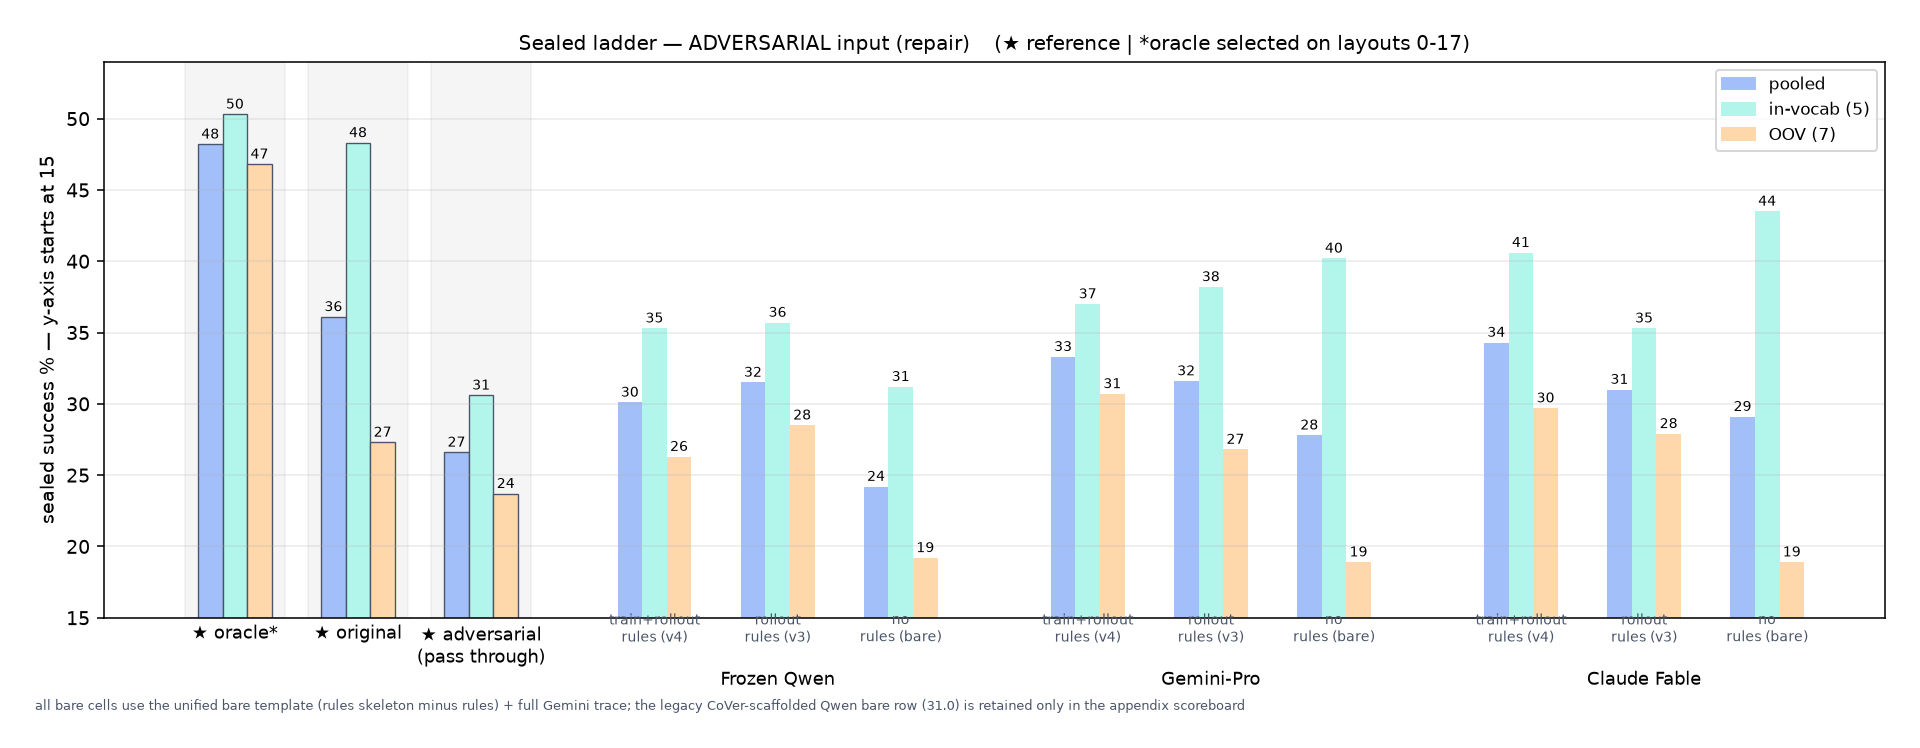
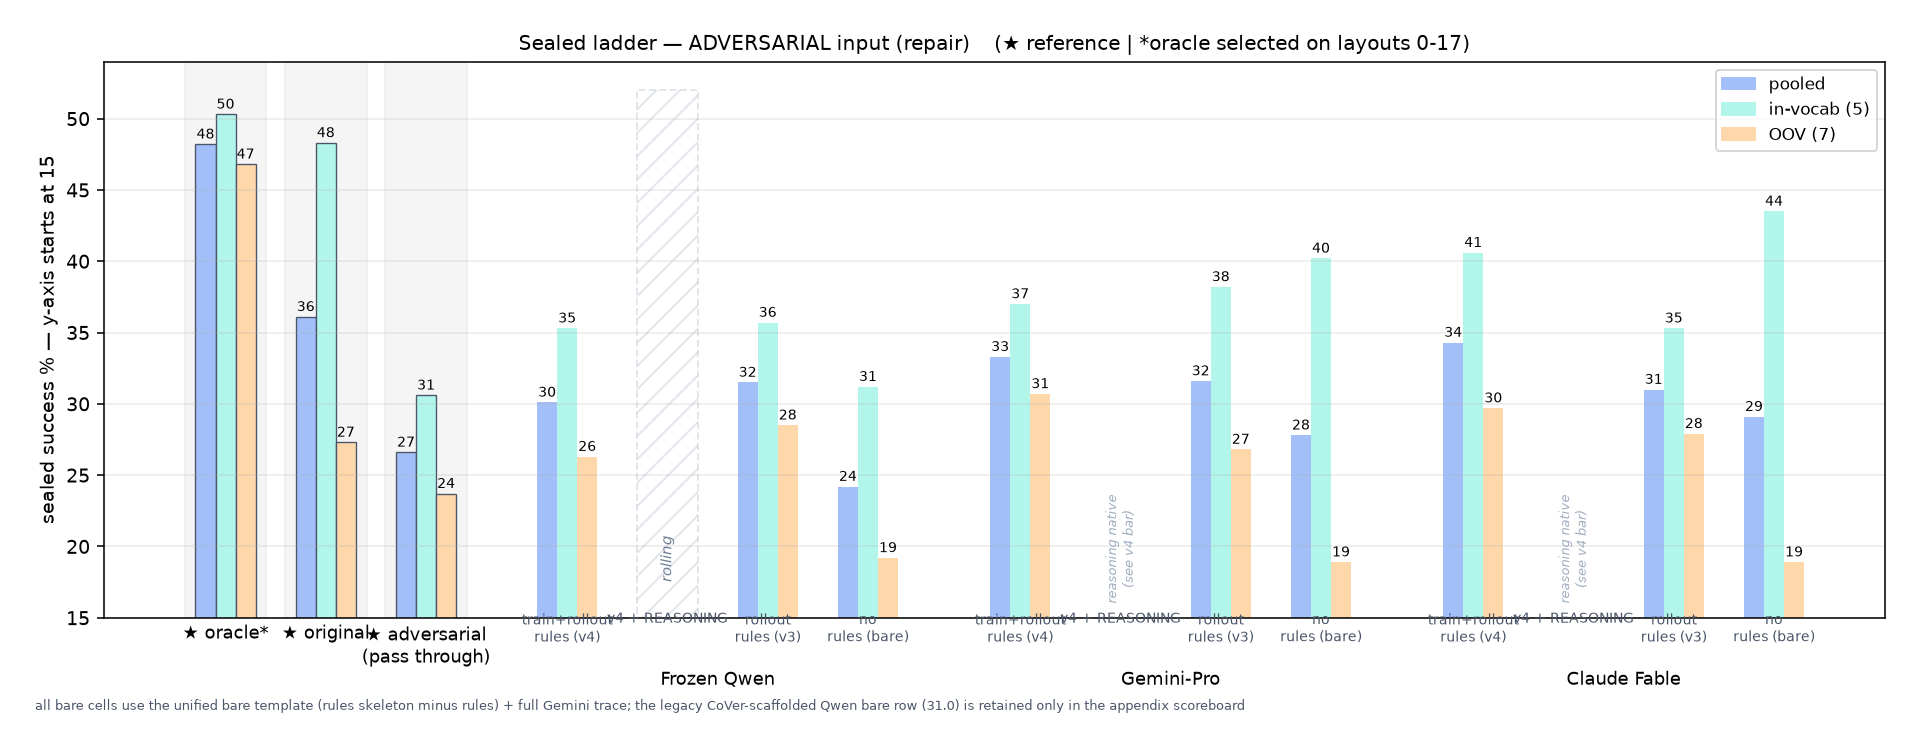
ladder charts: explicit v4+REASONING column (Qwen think cells rolling/queued)

diff --git a/scripts/make_condition_ladders.py b/scripts/make_condition_ladders.py
@@ -15,22 +15,22 @@ REFS = [("oracle*", (48.2, 50.3, 46.8)), ("original", (36.1, 48.3, 27.3)),
 
 DATA = {
     "adversarial": {
-        "roles": ["train+rollout rules (v4)", "rollout rules (v3)", "no rules (bare)"],
+        "roles": ["train+rollout rules (v4)", "v4 + REASONING", "rollout rules (v3)", "no rules (bare)"],
         "models": {
-            "Frozen Qwen": [(30.1, 35.3, 26.3), (31.5, 35.7, 28.5), (24.2, 31.2, 19.2)],
-            "Gemini-Pro": [(33.3, 37.0, 30.7), (31.6, 38.2, 26.8), (27.8, 40.2, 18.9)],
-            "Claude Fable": [(34.3, 40.6, 29.7), (31.0, 35.3, 27.9), (29.1, 43.5, 18.9)],
+            "Frozen Qwen": [(30.1, 35.3, 26.3), None, (31.5, 35.7, 28.5), (24.2, 31.2, 19.2)],
+            "Gemini-Pro": [(33.3, 37.0, 30.7), "N/A", (31.6, 38.2, 26.8), (27.8, 40.2, 18.9)],
+            "Claude Fable": [(34.3, 40.6, 29.7), "N/A", (31.0, 35.3, 27.9), (29.1, 43.5, 18.9)],
         },
-        "pending": {},
+        "pending": {("Frozen Qwen", 1): "rolling"},
     },
     "nominal": {
-        "roles": ["train+rollout rules (v4)", "rollout rules (v3)"],
+        "roles": ["train+rollout rules (v4)", "v4 + REASONING", "rollout rules (v3)"],
         "models": {
-            "Frozen Qwen": [(27.8, 34.9, 22.7), None],
-            "Gemini-Pro": [(37.2, 46.0, 30.9), (34.8, 42.1, 29.6)],
-            "Claude Fable": [(37.7, 47.6, 30.7), (34.7, 41.9, 29.6)],
+            "Frozen Qwen": [(27.8, 34.9, 22.7), None, None],
+            "Gemini-Pro": [(37.2, 46.0, 30.9), "N/A", (34.8, 42.1, 29.6)],
+            "Claude Fable": [(37.7, 47.6, 30.7), "N/A", (34.7, 41.9, 29.6)],
         },
-        "pending": {},
+        "pending": {("Frozen Qwen", 1): "queued"},
     },
 }
 STRATA = [("pooled", "#a3bffa"), ("in-vocab (5)", "#b2f5ea"), ("OOV (7)", "#fed7aa")]
@@ -56,7 +56,10 @@ for cond, spec in DATA.items():
     for model, cells in spec["models"].items():
         cxs = []
         for i, cell in enumerate(cells):
-            if cell is None:
+            if cell == "N/A":
+                ax.text(x, 16.0, "reasoning native\n(see v4 bar)", ha="center", va="bottom",
+                        fontsize=6.6, color="#a0aec0", style="italic", rotation=90)
+            elif cell is None:
                 ax.bar(x, 52, 3 * W, color="none", edgecolor="#a0aec0", ls="--",
                        lw=1.0, hatch="//", alpha=0.30)
                 note = spec["pending"].get((model, i), "not yet run")
